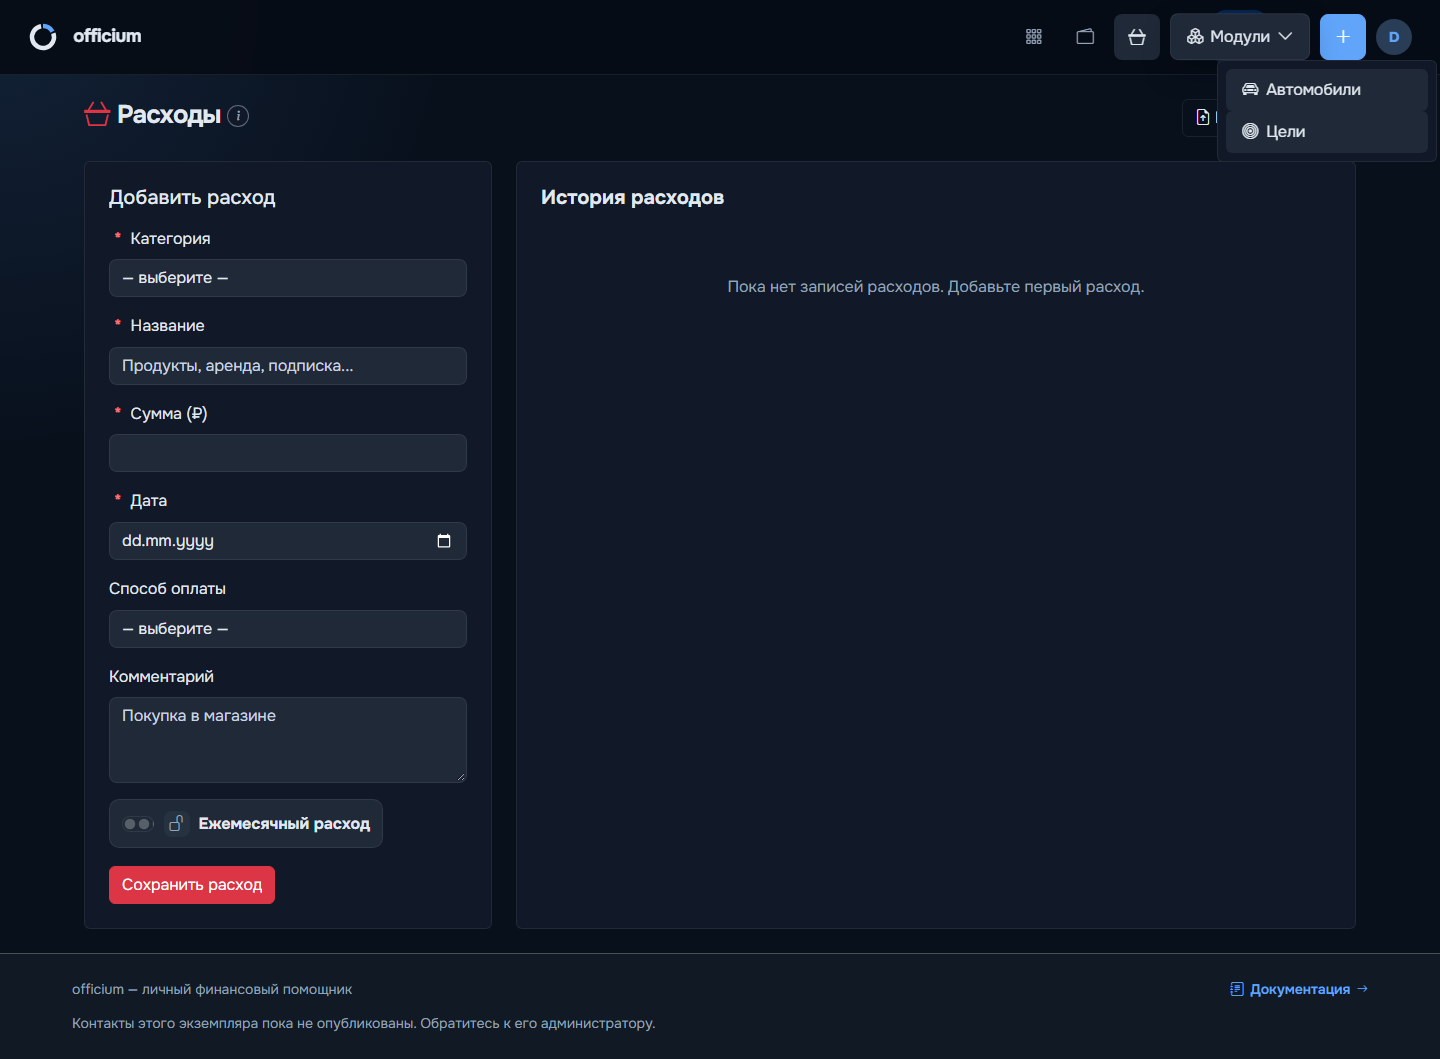
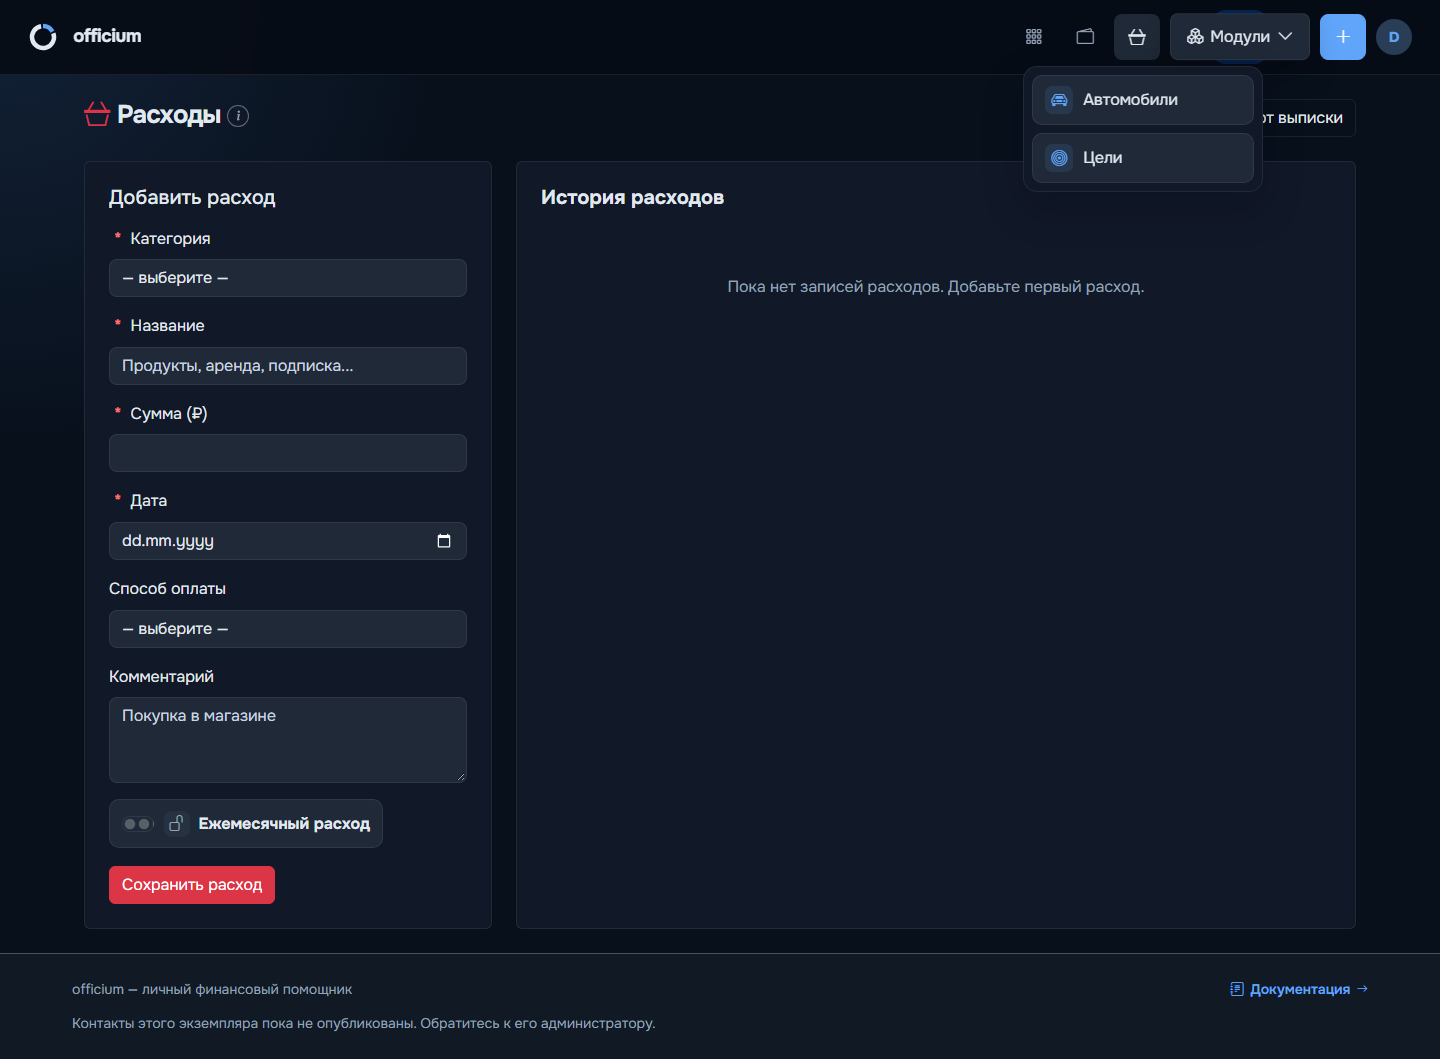
fix(navigation): separate module menu items visually

Changed region(s): [[0.7188, 0.0623, 1.0, 0.187]]

diff --git a/static/css/style.css b/static/css/style.css
@@ -7501,4 +7501,49 @@ html[data-theme="dark"] .toast {
 .info-hint__bubble[hidden] {
     display: none;
 }
-.modules-menu>.dropdown-menu{min-width:220px;margin-top:0;padding:.5rem}.modules-menu .dropdown-item{display:flex;align-items:center;min-height:42px;border-radius:6px}.modules-menu .nav-link{font:inherit}.navbar.navbar--compact .modules-menu-chevron{display:none}@media(max-width:991.98px){.modules-menu{width:100%}.modules-menu>button{margin-inline:auto}.modules-menu>.dropdown-menu{position:static;min-width:0;width:100%}}
+.modules-menu > .dropdown-menu {
+    min-width: 240px;
+    margin-top: 6px;
+    padding: 8px;
+    border-radius: 14px;
+    box-shadow: 0 16px 40px rgba(2, 8, 23, .24);
+}
+#modulesMenu > li + li { margin-top: 8px; }
+.modules-menu #modulesMenu .dropdown-item {
+    display: flex;
+    align-items: center;
+    min-height: 48px;
+    padding: 10px 12px;
+    border: 1px solid var(--border);
+    border-radius: 10px;
+    color: var(--text) !important;
+    background: var(--bg-card-2) !important;
+    transition: background-color 150ms ease, border-color 150ms ease;
+}
+.modules-menu #modulesMenu .dropdown-item:hover,
+.modules-menu #modulesMenu .dropdown-item:focus-visible {
+    border-color: color-mix(in srgb, var(--primary) 60%, var(--border));
+    background: color-mix(in srgb, var(--primary) 12%, var(--bg-card-2)) !important;
+}
+.modules-menu #modulesMenu .dropdown-item.active {
+    border-color: color-mix(in srgb, var(--primary) 65%, var(--border));
+    background: color-mix(in srgb, var(--primary) 18%, var(--bg-card-2)) !important;
+}
+#modulesMenu .dropdown-item > .bi {
+    display: inline-grid;
+    place-items: center;
+    flex: 0 0 28px;
+    width: 28px;
+    height: 28px;
+    margin-right: 10px !important;
+    border-radius: 7px;
+    color: var(--primary);
+    background: color-mix(in srgb, var(--primary) 12%, transparent);
+}
+.modules-menu .nav-link { font: inherit; }
+.navbar.navbar--compact .modules-menu-chevron { display: none; }
+@media (max-width: 991.98px) {
+    .modules-menu { width: 100%; }
+    .modules-menu > button { margin-inline: auto; }
+    .modules-menu > .dropdown-menu { position: static; min-width: 0; width: 100%; }
+}

diff --git a/templates/base.html b/templates/base.html
@@ -28,7 +28,7 @@
     <link href="{{ url_for('static', filename='vendor/bootstrap/css/bootstrap.min.css') }}" rel="stylesheet">
     <link href="{{ url_for('static', filename='vendor/bootstrap-icons/font/bootstrap-icons.css') }}" rel="stylesheet">
     <meta name="csrf-token" content="{{ csrf_token() }}">
-    <link href="{{ url_for('static', filename='css/style.css') }}?v={{ config.APP_VERSION|urlencode }}&amp;rev=23" rel="stylesheet">
+    <link href="{{ url_for('static', filename='css/style.css') }}?v={{ config.APP_VERSION|urlencode }}&amp;rev=24" rel="stylesheet">
     {% block extra_css %}{% endblock %}
 </head>
 <body class="{% if is_telegram_mini_app %}telegram-mini-app{% elif current_user.is_authenticated and not request.path.startswith('/admin') %}has-mobile-app-nav{% endif %}{% if current_user.is_authenticated and current_user.is_admin and request.path.startswith('/admin') %} admin-page{% elif request.endpoint == 'admin_login' %} admin-login-page{% endif %}">
@@ -145,7 +145,7 @@
                         <span class="nav-expand__compact"><i class="bi bi-boxes me-1" aria-hidden="true"></i>Модули<i class="bi bi-chevron-down ms-1 modules-menu-chevron" aria-hidden="true"></i></span>
                         <span class="nav-expand__full" aria-hidden="true"><i class="bi bi-boxes"></i>Модули<i class="bi bi-chevron-down"></i></span>
                     </button>
-                    <ul id="modulesMenu" class="dropdown-menu" aria-labelledby="modulesMenuToggle">
+                    <ul id="modulesMenu" class="dropdown-menu dropdown-menu-end" aria-labelledby="modulesMenuToggle">
                         {% if vehicles_enabled %}<li><a class="dropdown-item {% if request.path.startswith('/vehicles') %}active{% endif %}" href="{{ url_for('vehicles') }}"><i class="bi bi-car-front me-2" aria-hidden="true"></i>Автомобили</a></li>{% endif %}
                         <li><a class="dropdown-item {% if request.path.startswith('/goals') %}active{% endif %}" href="{{ url_for('goals') }}"><i class="bi bi-bullseye me-2" aria-hidden="true"></i>Цели</a></li>
                     </ul>

diff --git a/CHANGELOG.md b/CHANGELOG.md
@@ -16,6 +16,8 @@
 
 ### Изменено
 
+- Пункты меню «Модули» разделены отступом, индивидуальными рамками и
+  скруглениями; добавлено отдельное выделение активного пункта и наведения.
 - Между госномером и флагом страны добавлена прямая чёрная разделительная линия.
 - «Автомобили» и «Цели» объединены в меню «Модули» между ипотекой и архивом:
   на компьютере список открывается при наведении, на сенсорном экране — нажатием.
